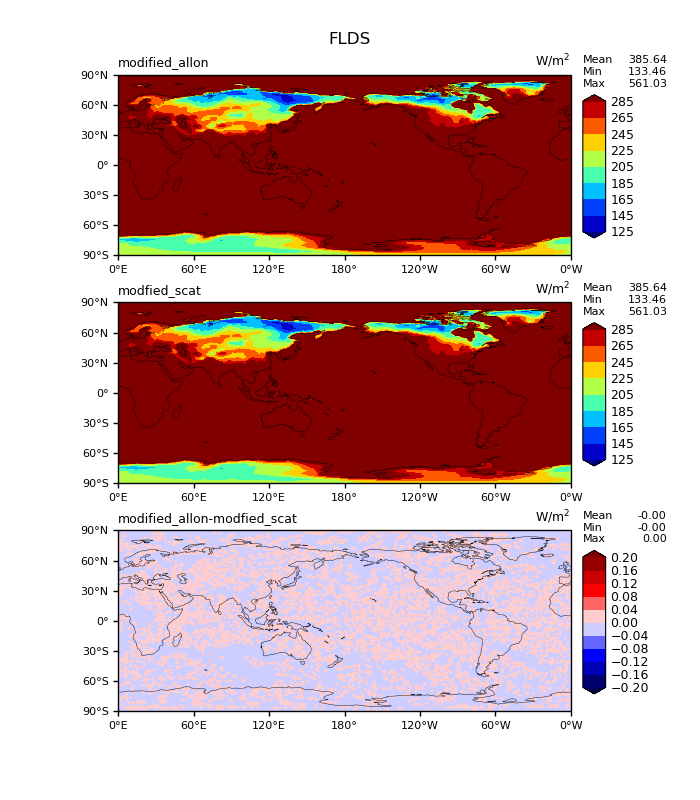
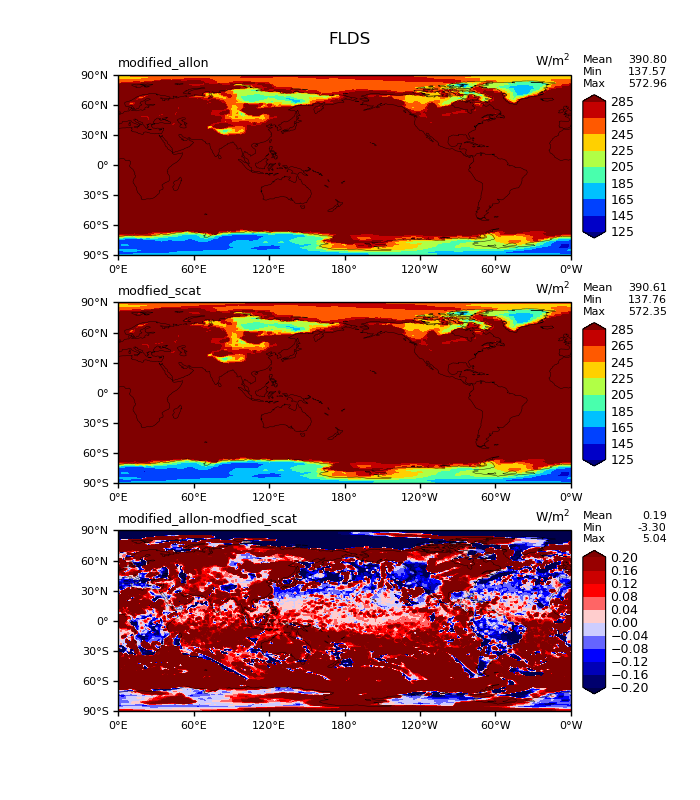
plot flus hour3

diff --git a/d1_lon_lat_contour_model_vs_model_sgl.py b/d1_lon_lat_contour_model_vs_model_sgl.py
@@ -31,8 +31,8 @@ fpath_exp='/global/cscratch1/sd/xianwen/E3SM_simulations/E3SM_v2_alpha_AMIP_RRTM
 #f1=fpath_ctl+"E3SMv2_offline_ICEFLAG1_full2_noEmis_climo_ANN.nc"
 #f2=fpath_exp+"E3SMv2_offline_ICEFLAG1_full2_noEmis_climo_ANN.nc"
 #f1=fpath_ctl+"E3SM_v2_alpha_AMIP_RRTMGP.ne30_ne30.cori-knl.cam.h0.0001-01-01-00000.nc"
-f1=fpath_ctl+"E3SM_v2_alpha_AMIP_RRTMG_UMRad_startover.ne30_ne30.cori-knl.cam.h0.2000-01-01-00000.nc"
-f2=fpath_exp+"E3SM_v2_alpha_AMIP_RRTMG_UMRad_startover.ne30_ne30.cori-knl.cam.h0.2000-01-01-00000.nc"
+f1=fpath_ctl+"E3SM_v2_alpha_AMIP_RRTMG_UMRad_startover.ne30_ne30.cori-knl.cam.h0.2000-01-01-07200.nc"
+f2=fpath_exp+"E3SM_v2_alpha_AMIP_RRTMG_UMRad_startover.ne30_ne30.cori-knl.cam.h0.2000-01-01-07200.nc"
 #f2=fpath_exp+"E3SM_coupled_restart_20TR_Yr2000-Scat.Year2000_2014_climo_ANN.nc"
 
 #f1=fpath_ctl+"solar_TSIS_cesm211_standard-ETEST-f19_g17-ens1.cam.h0.0001-01.nc"
